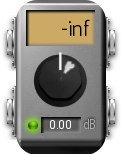
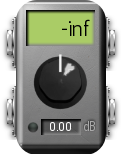
Re-purpose enable-LED to "Mute"

diff --git a/modgui/icon-tinygain-stereo.html b/modgui/icon-tinygain-stereo.html
@@ -2,7 +2,7 @@
 	<div mod-role="drag-handle" class="mod-drag-handle"></div>
 
 	<div class="db-label"><h1>dB</h1></div>
-	<div class="enable-led off" mod-role="bypass"></div>
+	<div class="enable-led off" mod-role="input-control-port" mod-port-symbol="mute"></div>
 
 	<div class="mod-display-group clearfix" mod-role="dpm">
 		<div title="Output Digital Peak, rise-time: immediate, falloff: 15dB/sec">

diff --git a/modgui/icon-tinygain.html b/modgui/icon-tinygain.html
@@ -2,7 +2,7 @@
 	<div mod-role="drag-handle" class="mod-drag-handle"></div>
 
 	<div class="db-label"><h1>dB</h1></div>
-	<div class="enable-led off" mod-role="bypass"></div>
+	<div class="enable-led off" mod-role="input-control-port" mod-port-symbol="mute"></div>
 
 	<div class="mod-display-group clearfix" mod-role="dpm">
 		<div title="Output Digital Peak, rise-time: immediate, falloff: 15dB/sec">

diff --git a/src/tinygain.c b/src/tinygain.c
@@ -35,6 +35,7 @@
 enum {
 	P_GAIN = 0,
 	P_ENABLE,
+	P_MUTE,
 	P_LEVEL,
 	P_AIN,
 	P_AOUT,
@@ -155,7 +156,7 @@ post (TinyGain* self)
 		*self->ports[P_LEVEL] = 0;
 		self->db_lvl = db_lvl;
 	}
-	else if (fast_fabsf (db_lvl - self->db_lvl) > .2) {
+	else if (fast_fabsf (db_lvl - self->db_lvl) > .1) {
 		*self->ports[P_LEVEL] = l;
 		self->db_lvl = db_lvl;
 	}
@@ -182,6 +183,8 @@ run_mono (LV2_Handle instance, uint32_t n_samples)
 
 	if (*self->ports[P_ENABLE] <= 0) {
 		t = 1.0;
+	} else if (*self->ports[P_MUTE] > 0) {
+		t = 0.0;
 	}
 
 #ifdef SEPARATE_LOOPS
@@ -231,6 +234,8 @@ run_stereo (LV2_Handle instance, uint32_t n_samples)
 
 	if (*self->ports[P_ENABLE] <= 0) {
 		t = 1.0;
+	} else if (*self->ports[P_MUTE] > 0) {
+		t = 0.0;
 	}
 
 #ifdef SEPARATE_LOOPS
